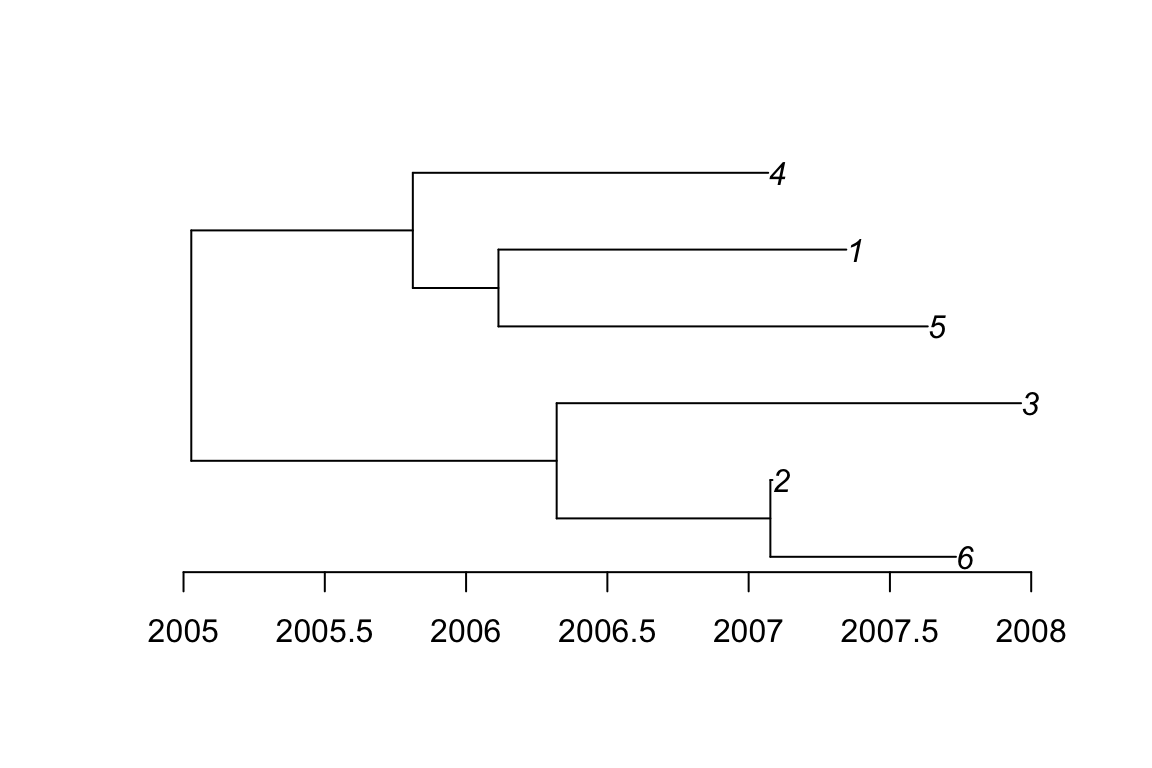
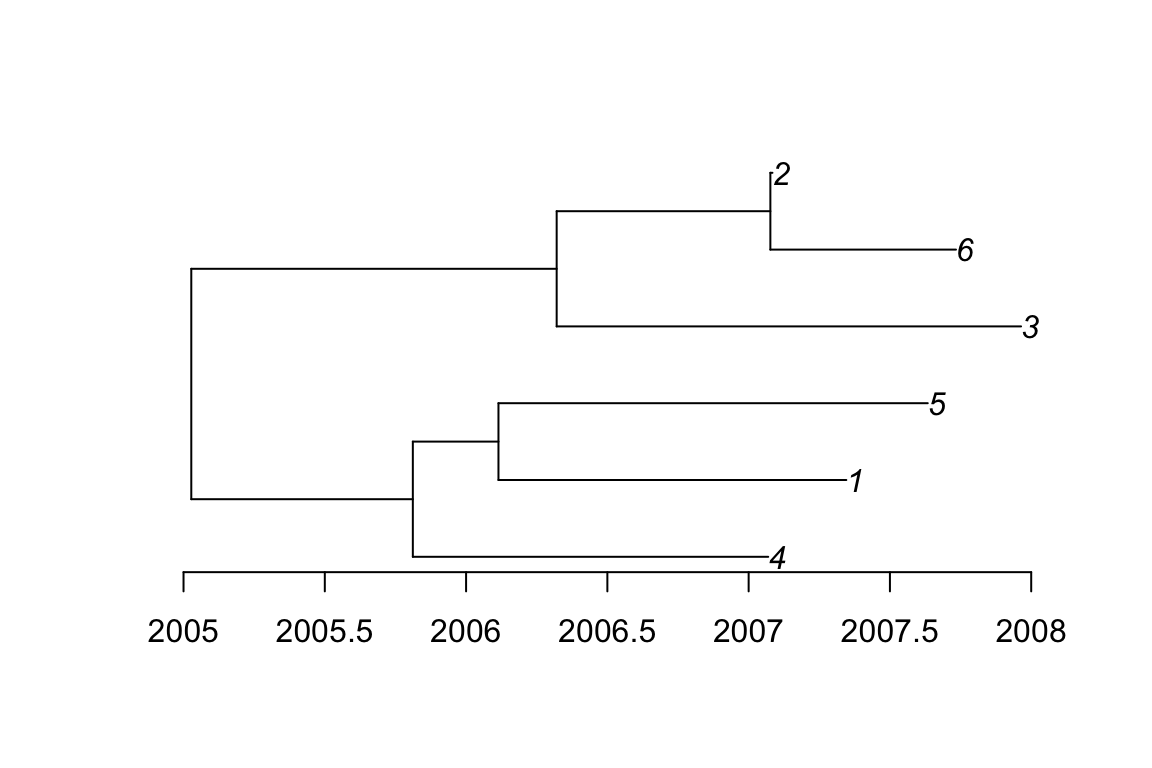
Leaf order in plots

diff --git a/docs/articles/infer.html b/docs/articles/infer.html
@@ -84,7 +84,7 @@
       <h1 data-toc-skip>Inference of transmission tree from a dated phylogeny</h1>
                         <h4 class="author">Xavier Didelot</h4>
             
-            <h4 class="date">2020-06-03</h4>
+            <h4 class="date">2020-06-04</h4>
       
       
       <div class="hidden name"><code>infer.Rmd</code></div>

diff --git a/docs/articles/multitree.html b/docs/articles/multitree.html
@@ -84,7 +84,7 @@
       <h1 data-toc-skip>Simultaneous Inference of Multiple Transmission Trees</h1>
                         <h4 class="author">Yuanwei Xu</h4>
             
-            <h4 class="date">2020-06-03</h4>
+            <h4 class="date">2020-06-04</h4>
       
       
       <div class="hidden name"><code>multitree.Rmd</code></div>

diff --git a/docs/articles/TransPhylo.html b/docs/articles/TransPhylo.html
@@ -84,7 +84,7 @@
       <h1 data-toc-skip>Introducing the R package TransPhylo</h1>
                         <h4 class="author">Xavier Didelot</h4>
             
-            <h4 class="date">2020-06-03</h4>
+            <h4 class="date">2020-06-04</h4>
       
       
       <div class="hidden name"><code>TransPhylo.Rmd</code></div>

diff --git a/docs/articles/simulate.html b/docs/articles/simulate.html
@@ -84,7 +84,7 @@
       <h1 data-toc-skip>Simulation of outbreak data</h1>
                         <h4 class="author">Xavier Didelot</h4>
             
-            <h4 class="date">2020-06-03</h4>
+            <h4 class="date">2020-06-04</h4>
       
       
       <div class="hidden name"><code>simulate.rmd</code></div>
